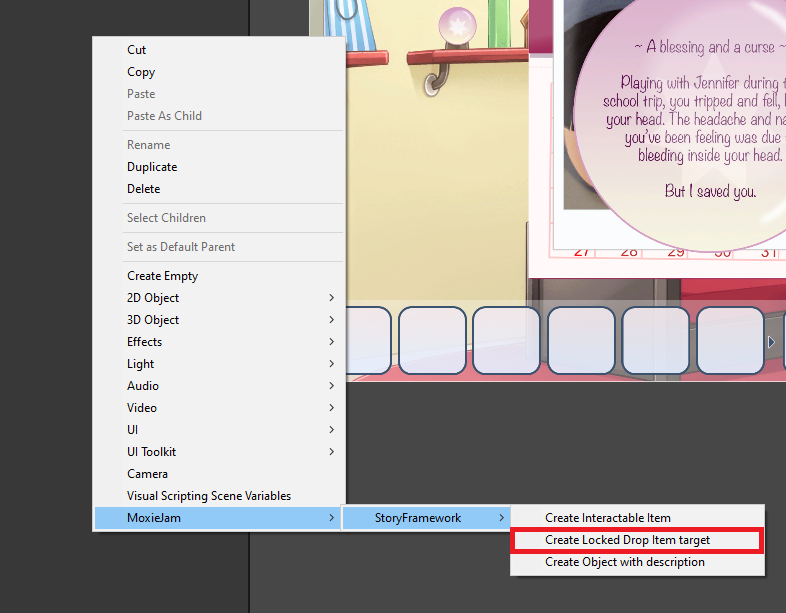
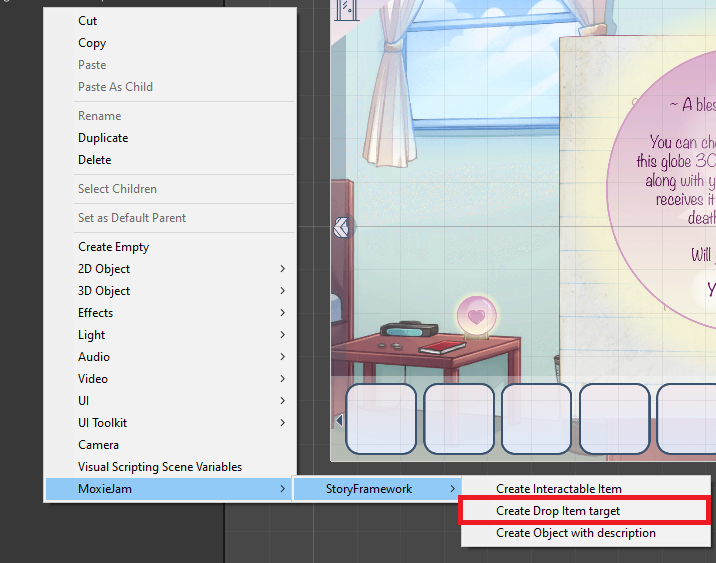
Updated manual and fixed a unity warning

diff --git a/Editor/Core/GameSettingsEditor.cs b/Editor/Core/GameSettingsEditor.cs
@@ -1,0 +1,7 @@
+namespace StoryFramework.Editor.Core
+{
+    public class GameSettingsEditor
+    {
+        
+    }
+}

diff --git a/Documentation~/manual/tutorials/CreateDropItemTarget.md b/Documentation~/manual/tutorials/CreateDropItemTarget.md
@@ -4,8 +4,26 @@ title: Createa a Drop Item Target
 ---
 # Create a drop item target
 
+A drop item target, pretty much does what it is called - it is a object you can dag and drop inventory items on.
+
+When a inventory item is dropped it can either be accepted or rejected depending on if you configured it to only accept a certain `Inventory Item` or a certain amount of the `Inventory Item`.
+
 ## Create a target to drop an item on
+
+The easiest way to create a drop item target is to right click in the hierarchy window and in the menu select:
+
+`MoxieJam->StoryFramework->Create Drop Item Target`
 
 ![Right click in hierarchy and select MoxieJam/StoryFramework/Create Drop Item target](../../resources/images/CreateDropItemTarget.png)
 
-![Configure item in window](../../resources/images/DropItemTarget.png)
+You have now created a drop item target, congratulations! Select the newly created object in the hierarchy window and take a look in the inspector window. This is all the components of the object you just created:
+
+1. `Transform` decided where to place the object in the scene. You can also use it to rotate or change the size of the object.
+2. `Box Collider 2D` is used to decide the clickable/mouser-over area of the object.
+3. `Sprite Renderer` like the name implies is used to render (draw) the sprite. You can assign a `Sprite` (image) here and do things such as flip it, and change what layer and order it's being drawn.
+4. See <xref:component_persistent_object>.
+5. See <xref:component_drop_item_target>
+6. See <xref:component_show_description_on_mouse_over>
+7. The last component is the material used by the `Sprite Renderer` to draw the image.
+
+8. ![A drop item target](../../resources/images/DropItemTarget.png)

diff --git a/Documentation~/manual/tutorials/CreateDropObjectWithDescription.md b/Documentation~/manual/tutorials/CreateDropObjectWithDescription.md
@@ -1,0 +1,25 @@
+---
+uid: create_object_with_description
+title: Create a object with description
+---
+# Create a object with description
+
+This is a simple but useful object that allows you display text in the dialogue when you have the mouse cursor over an object in the scene.
+
+## Create a target to drop an item on
+
+The easiest way to create a object with description is to right click in the hierarchy window and in the menu select:
+
+`MoxieJam->StoryFramework->Create Object with description`
+
+![Right click in hierarchy and select MoxieJam/StoryFramework/Create Object with description](../../resources/images/CreateInteractableObjectWithDescription.png)
+
+You have now created a object with description, congratulations! Select the newly created object in the hierarchy window and take a look in the inspector window. This is all the components of the object you just created:
+
+1. `Transform` decided where to place the object in the scene. You can also use it to rotate or change the size of the object.
+2. `Box Collider 2D` is used to decide the clickable/mouser-over area of the object.
+3. `Sprite Renderer` like the name implies is used to render (draw) the sprite. You can assign a `Sprite` (image) here and do things such as flip it, and change what layer and order it's being drawn.
+4. See <xref:component_show_description_on_mouse_over>.
+6. The last component is the material used by the `Sprite Renderer` to draw the image.
+
+7. ![A object with description](../../resources/images/CreateInteractableObjectWithDescription2.png)

diff --git a/Documentation~/manual/components/InteractableItem.md b/Documentation~/manual/components/InteractableItem.md
@@ -4,11 +4,47 @@ title: Interactable Item
 ---
 # Interactable Item
 
-![Persistent Object component](../../resources/images/components/InteractableItem.png)
+![Interactable Item component](../../resources/images/components/InteractableItem.png)
+
 
 The interactable item is a composite component gathering often-used functionality relating to items:
 
-* It allow you to pick up an item
+* It allow you to pick up an Inventory Item
+* See some descriptive text in the dialogue when user click and/or have the mouse over.
+* Do some action when mouse is over, clicking or when picking up the item (see Events section).
 
 ## Settings
 
+### Item
+
+A item to associate with this component. This is the item that would be picked up if the user clicks on this component. The item also provide the default description text.
+
+## Custom description
+
+If you do not want to use the description provided in the items settings you can override it with this text.
+
+Leave empty to use the items text.
+
+## Events
+
+The component provide some useful events you can use to make something happen when interacting with the component.
+
+### On Mouse enter
+
+This event happens when the mouse cursor enter over this object.
+
+### On Mouse exit
+
+This event happens when the mouse cursor exit from this object.
+
+### On Mouse click
+
+This event happens when the user clicks on this object.
+
+### On Pick Up
+
+This event happens the moment the user clicks to pick up the item.
+
+## Related components
+
+* <xref:component_inventory_item>

diff --git a/Documentation~/manual/components/DropItemTarget.md b/Documentation~/manual/components/DropItemTarget.md
@@ -1,0 +1,35 @@
+---
+uid: component_drop_item_target
+title: Drop Item Target
+---
+# Drop Item Target
+
+![Drop Item Target component](../../resources/images/components/DropItemTarget.png)
+
+The drop item target works as a drop target for Inventory Items when dragging them from the inventory. It is a basic building block for interactions in a point and click game that allow the user to combine items to perform actions. When a dropped item is accepted or rejected it calls an event.
+
+## Settings
+
+### Required item
+
+If you want this component to only allow a certain item you can specify it here. 
+
+## Required item amount
+
+If the user can collect more than one of the item you can make it so the drop target only accept the item if it have a certain amount of it in its inventory.
+
+## Events
+
+The component provide some useful events you can use to make something happen when interacting with the component.
+
+### On Item Accepted
+
+This event happens if the user have dropped the require item (if any is needed) and have the required amount of the item in its inventory.
+
+### On Item Rejected
+
+This event happens if the user dropped and item on this object and it was either the wrong item or the user did not have enough of the item in the inventory.
+
+## Related components
+
+* <xref:component_inventory_item>

diff --git a/Documentation~/manual/components/InventoryItem.md b/Documentation~/manual/components/InventoryItem.md
@@ -1,0 +1,28 @@
+---
+uid: component_inventory_item
+title: Inventory Item
+---
+# Inventory Item
+
+![Inventory Item](../../resources/images/components/InventoryItem.png)
+
+A inventory item represent a object that can be placed in the inventory. You can assign one to a `Interactable Item` (see <xref:component_interactable_item>) to allow it to be picked up in to the inventory. It is also used when dragging from the inventory and dropping on the `Drop Item Target` (see <xref:component_drop_item_target>). 
+
+## Settings
+
+### Name
+
+A name for the item.
+
+### Description
+
+A description of the item, used by the inventory to display information in the dialogue.
+
+### Icon
+
+A graphical representation of the item. Used by the inventory to display the item. Also used when dragging the item from the inventory.
+
+## Related components
+
+* <xref:component_inventory_item>
+* <xref:component_drop_item_target>

diff --git a/Documentation~/manual/components/ShowDescriptionOnMouseOver.md b/Documentation~/manual/components/ShowDescriptionOnMouseOver.md
@@ -1,0 +1,15 @@
+---
+uid: component_show_description_on_mouse_over
+title: Show Description On Mouse Over
+---
+# Show Description On Mouse Over
+
+![Show Description On Mouse Over component](../../resources/images/components/ShowDescriptionOnMouseOver.png)
+
+This component allows use to display some text when user have the mouser over the object.
+
+## Settings
+
+### Description
+
+The text to display in the dialogue

diff --git a/Documentation~/manual/components/index.md b/Documentation~/manual/components/index.md
@@ -7,4 +7,7 @@ title: Components
 An in-depth guide of some commonly used components:
 
 * <xref:component_persistent_object>
+* <xref:component_inventory_item>
 * <xref:component_interactable_item>
+* <xref:component_drop_item_target>
+* <xref:component_show_description_on_mouse_over>

diff --git a/Documentation~/manual/tutorials/index.md b/Documentation~/manual/tutorials/index.md
@@ -6,3 +6,8 @@ title: Components
 
 * <xref:create_interactable_item>
 * <xref:create_drop_item_target>
+* <xref:create_object_with_description>
+
+## Advanced
+
+* Starting from scratch
